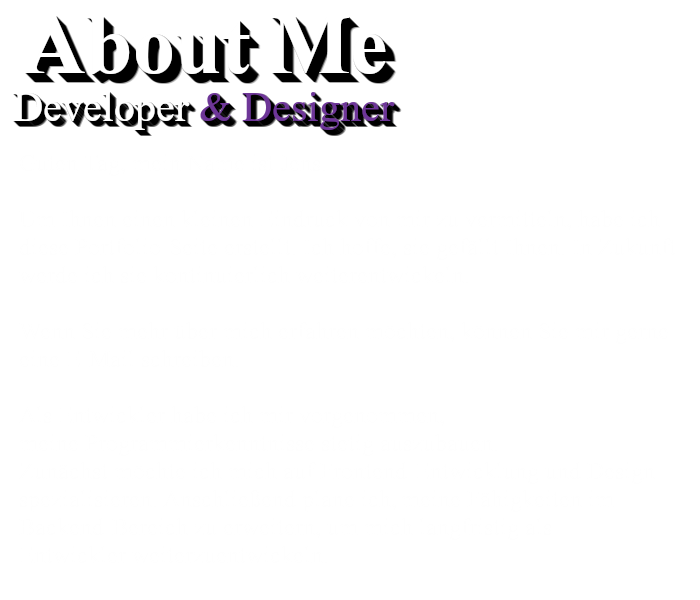
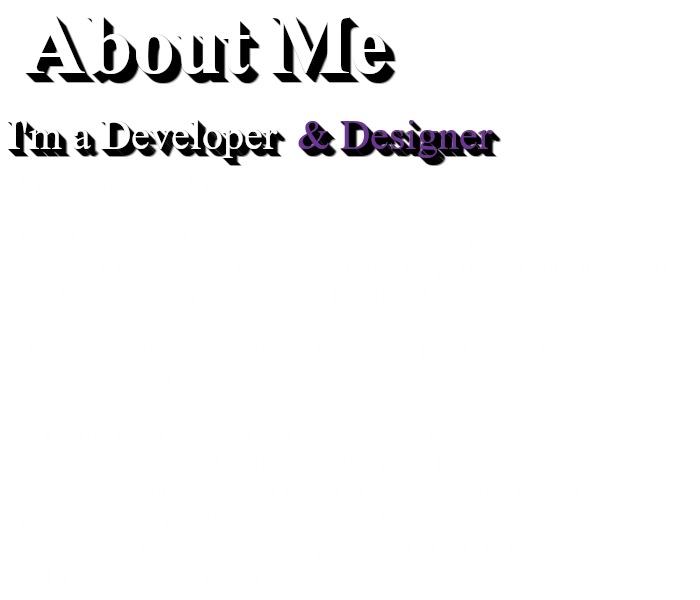
new picture for about me and litte css customization

Changed region(s): [[0.0, 0.15, 0.72, 0.3]]

diff --git a/Sites2/aboutme.css b/Sites2/aboutme.css
@@ -178,6 +178,7 @@ box-shadow: 4px 10px 15px rgba(20, 20, 20, 0.4);
 
     margin-left: 10%;
     margin-top: 7%;
+    margin-bottom: 3%;
 
     opacity: 0.7;
     
@@ -206,11 +207,6 @@ box-shadow: 4px 10px 15px rgba(20, 20, 20, 0.4);
 
     transform: scale(1.1);
     
-}
-
-.pic1 {
-
-    margin-bottom: 3%;
 }
 
 #themeButton {
